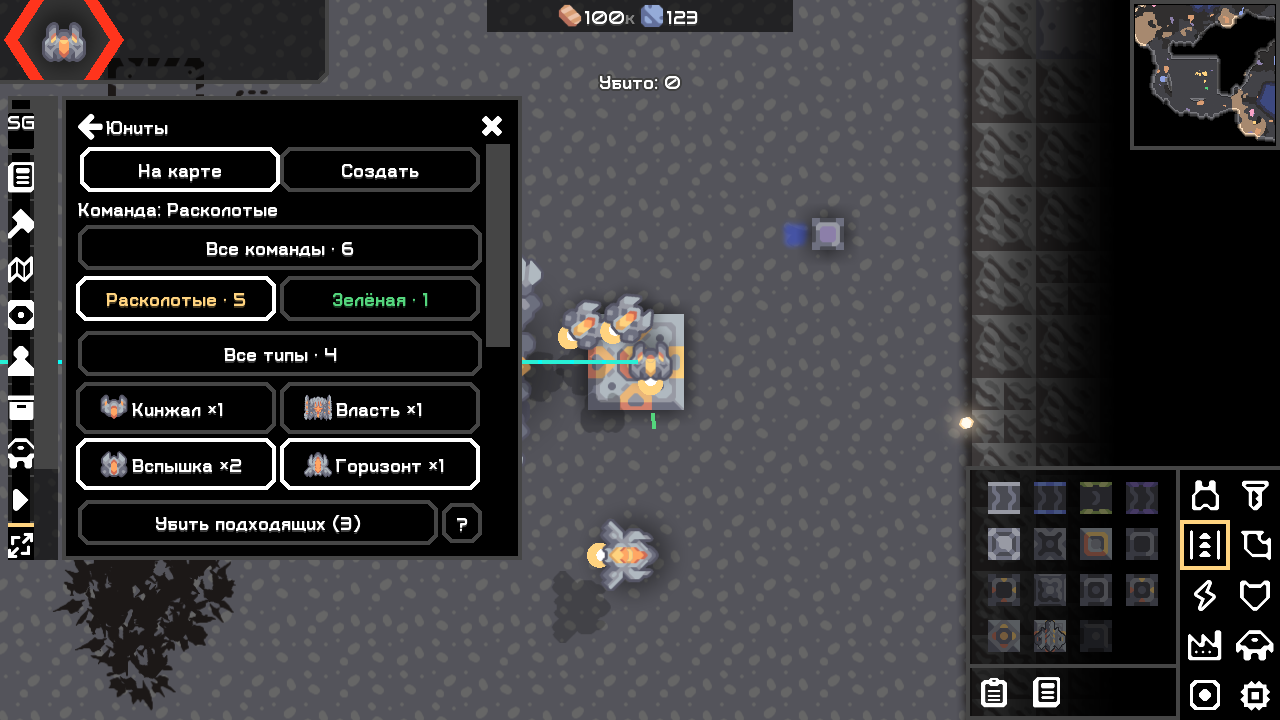
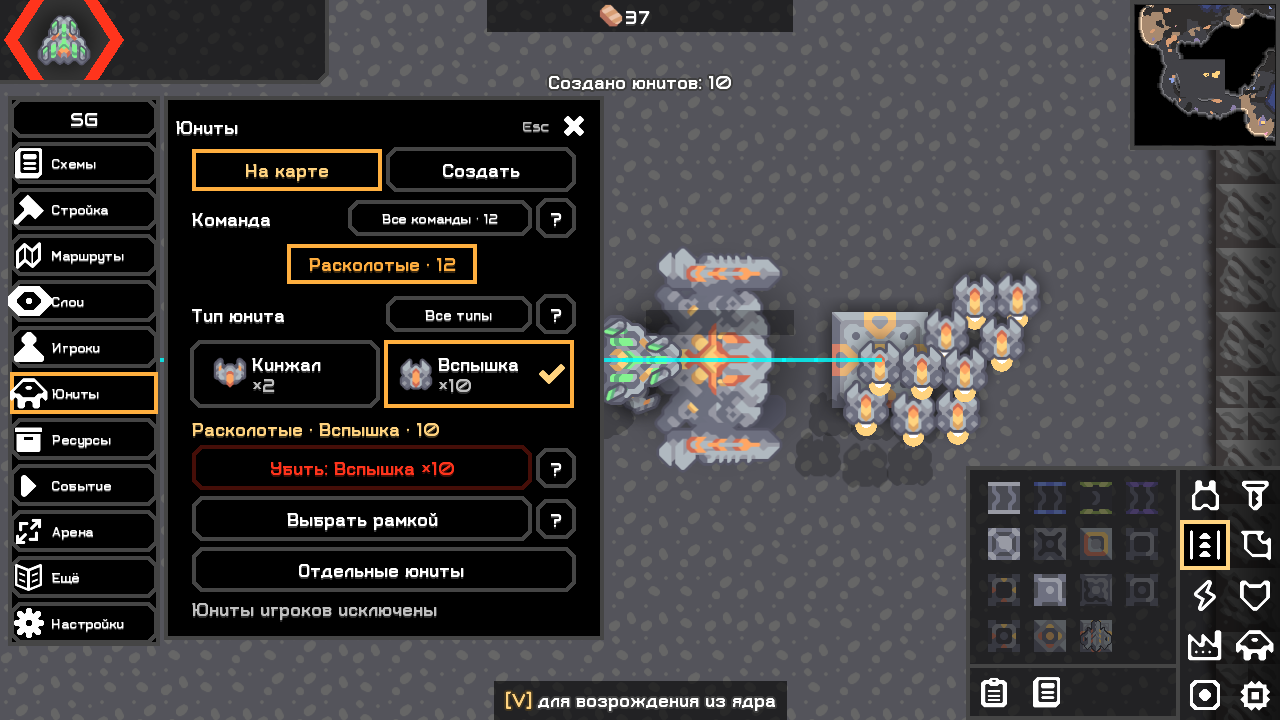
Publish 0.4.0 desktop UI update

diff --git a/README.md b/README.md
@@ -10,7 +10,7 @@
 
 Mindustry **V8 Build 160.7**, настольные Windows/Linux. Windows проверен, Linux пока не проверен. Android не поддерживается.
 
-**Тестовая версия 0.3.1.** Полный паритет с Scheme-Size 2.7.79 не подтверждён. Основной сетевой сценарий — мод у встроенного хоста, гости без модов; проверенные действия и ограничения перечислены в отчётах. WAN пока не проверен.
+**Тестовая версия 0.4.0.** Полный паритет с Scheme-Size 2.7.79 не подтверждён. Основной сетевой сценарий — мод у встроенного хоста, гости без модов; проверенные действия и ограничения перечислены в отчётах. WAN пока не проверен.
 
 ## Установка
 
@@ -22,14 +22,14 @@ Mindustry **V8 Build 160.7**, настольные Windows/Linux. Windows про
 
 ## Интерфейс
 
-![Настоящая игра, версия 0.3.1](screenshot.png)
+![Настоящая игра, версия 0.4.0](screenshot.png)
 
-Юниты → На карте → команда → типы по иконкам → Убить подходящих. Можно выбрать несколько типов, рамку или отдельных юнитов. Управляемые игроками юниты исключаются повторно при исполнении. Native смерть может вызвать побочный урон.
+Юниты → На карте → команда → типы по иконкам → красная кнопка с названием и количеством целей. Можно выбрать несколько типов, рамку или отдельных юнитов. Управляемые игроками юниты исключаются повторно при исполнении. Native смерть может вызвать побочный урон.
 
 ## Исходники и проверки
 
-Это витрина сборок из общей кодовой базы. Исходники: https://github.com/FallAvalon/scheme-size/tree/dddb0ff2c289b79d7ac9e5bcfaa1fa6a596f8ee7
+Это витрина сборок из общей кодовой базы. Исходники: https://github.com/FallAvalon/scheme-size/tree/59d7f69a27520061f257221b890c7574032b0b89
 
-[Матрица реализации](https://github.com/FallAvalon/scheme-size/blob/dddb0ff2c289b79d7ac9e5bcfaa1fa6a596f8ee7/reports/02_o279_implementation_matrix.md) · [Проверки 0.3.1](https://github.com/FallAvalon/scheme-size/blob/dddb0ff2c289b79d7ac9e5bcfaa1fa6a596f8ee7/reports/17_github_publication.md) · [История сетевых проверок](https://github.com/FallAvalon/scheme-size/blob/dddb0ff2c289b79d7ac9e5bcfaa1fa6a596f8ee7/reports/16_roster_icon_publication.md).
+[Матрица реализации](https://github.com/FallAvalon/scheme-size/blob/59d7f69a27520061f257221b890c7574032b0b89/reports/02_o279_implementation_matrix.md) · [Проверки 0.4.0](https://github.com/FallAvalon/scheme-size/blob/59d7f69a27520061f257221b890c7574032b0b89/reports/18_concept_interface.md) · [История сетевых проверок](https://github.com/FallAvalon/scheme-size/blob/59d7f69a27520061f257221b890c7574032b0b89/reports/16_roster_icon_publication.md).
 
 Исходный коммит и хеш манифеста указаны в source.json; к релизу приложен SHA256SUMS.txt. Это самостоятельная реализация, не официальный выпуск оригинального Scheme-Size.

diff --git a/RELEASE_NOTES.md b/RELEASE_NOTES.md
@@ -1,17 +1,17 @@
-# Size God (SG) 0.3.1 [v160.7]
+# Size God (SG) 0.4.0 [v160.7]
 
 Тестовый выпуск для настольной Mindustry **160.7**.
 
 Все инструменты Plus и управление матчем: игроки, команды, ресурсы, юниты, правила, арена, события и «Босс-игрок».
 
-- Собственные названия S+/SG и отдельная минималистичная иконка каждой редакции.
-- Группы юнитов по команде и типам, несколько типов, рамка и отдельные отметки.
-- Общая Java-кодовая база без дублирования реализации. Внутренние ID сохранены для настроек.
+- Подписанные разделы, сворачивание подписей и компактные панели.
+- Карточки схем с превью, вкладки Библиотека / С карты.
+- Карточки юнитов, конкретная кнопка убийства группы, шаги создания и предпросмотр точки на карте. Исправлена отмена правой кнопкой.
 
 Установка: импортировать `scheme-size-god.jar` через меню модификаций и перезапустить игру. Обычно нужна только одна редакция.
 
-Сборка/check, упаковка, отдельные редакции и совместная загрузка проверены на Windows. Полный отчёт: https://github.com/FallAvalon/scheme-size/blob/dddb0ff2c289b79d7ac9e5bcfaa1fa6a596f8ee7/reports/17_github_publication.md
+Сборка/check, упаковка, отдельные редакции и совместная загрузка проверены на Windows. Полный отчёт: https://github.com/FallAvalon/scheme-size/blob/59d7f69a27520061f257221b890c7574032b0b89/reports/18_concept_interface.md
 
 Linux, WAN и физический OS-ввод не проверены. Полный паритет O279 не заявлен. Android не поддерживается. Смерть юнитов необратима и может вызвать побочный урон.
 
-Вложения: **scheme-size-god.jar** и **SHA256SUMS.txt**. Исходники: https://github.com/FallAvalon/scheme-size/tree/dddb0ff2c289b79d7ac9e5bcfaa1fa6a596f8ee7
+Вложения: **scheme-size-god.jar** и **SHA256SUMS.txt**. Исходники: https://github.com/FallAvalon/scheme-size/tree/59d7f69a27520061f257221b890c7574032b0b89
